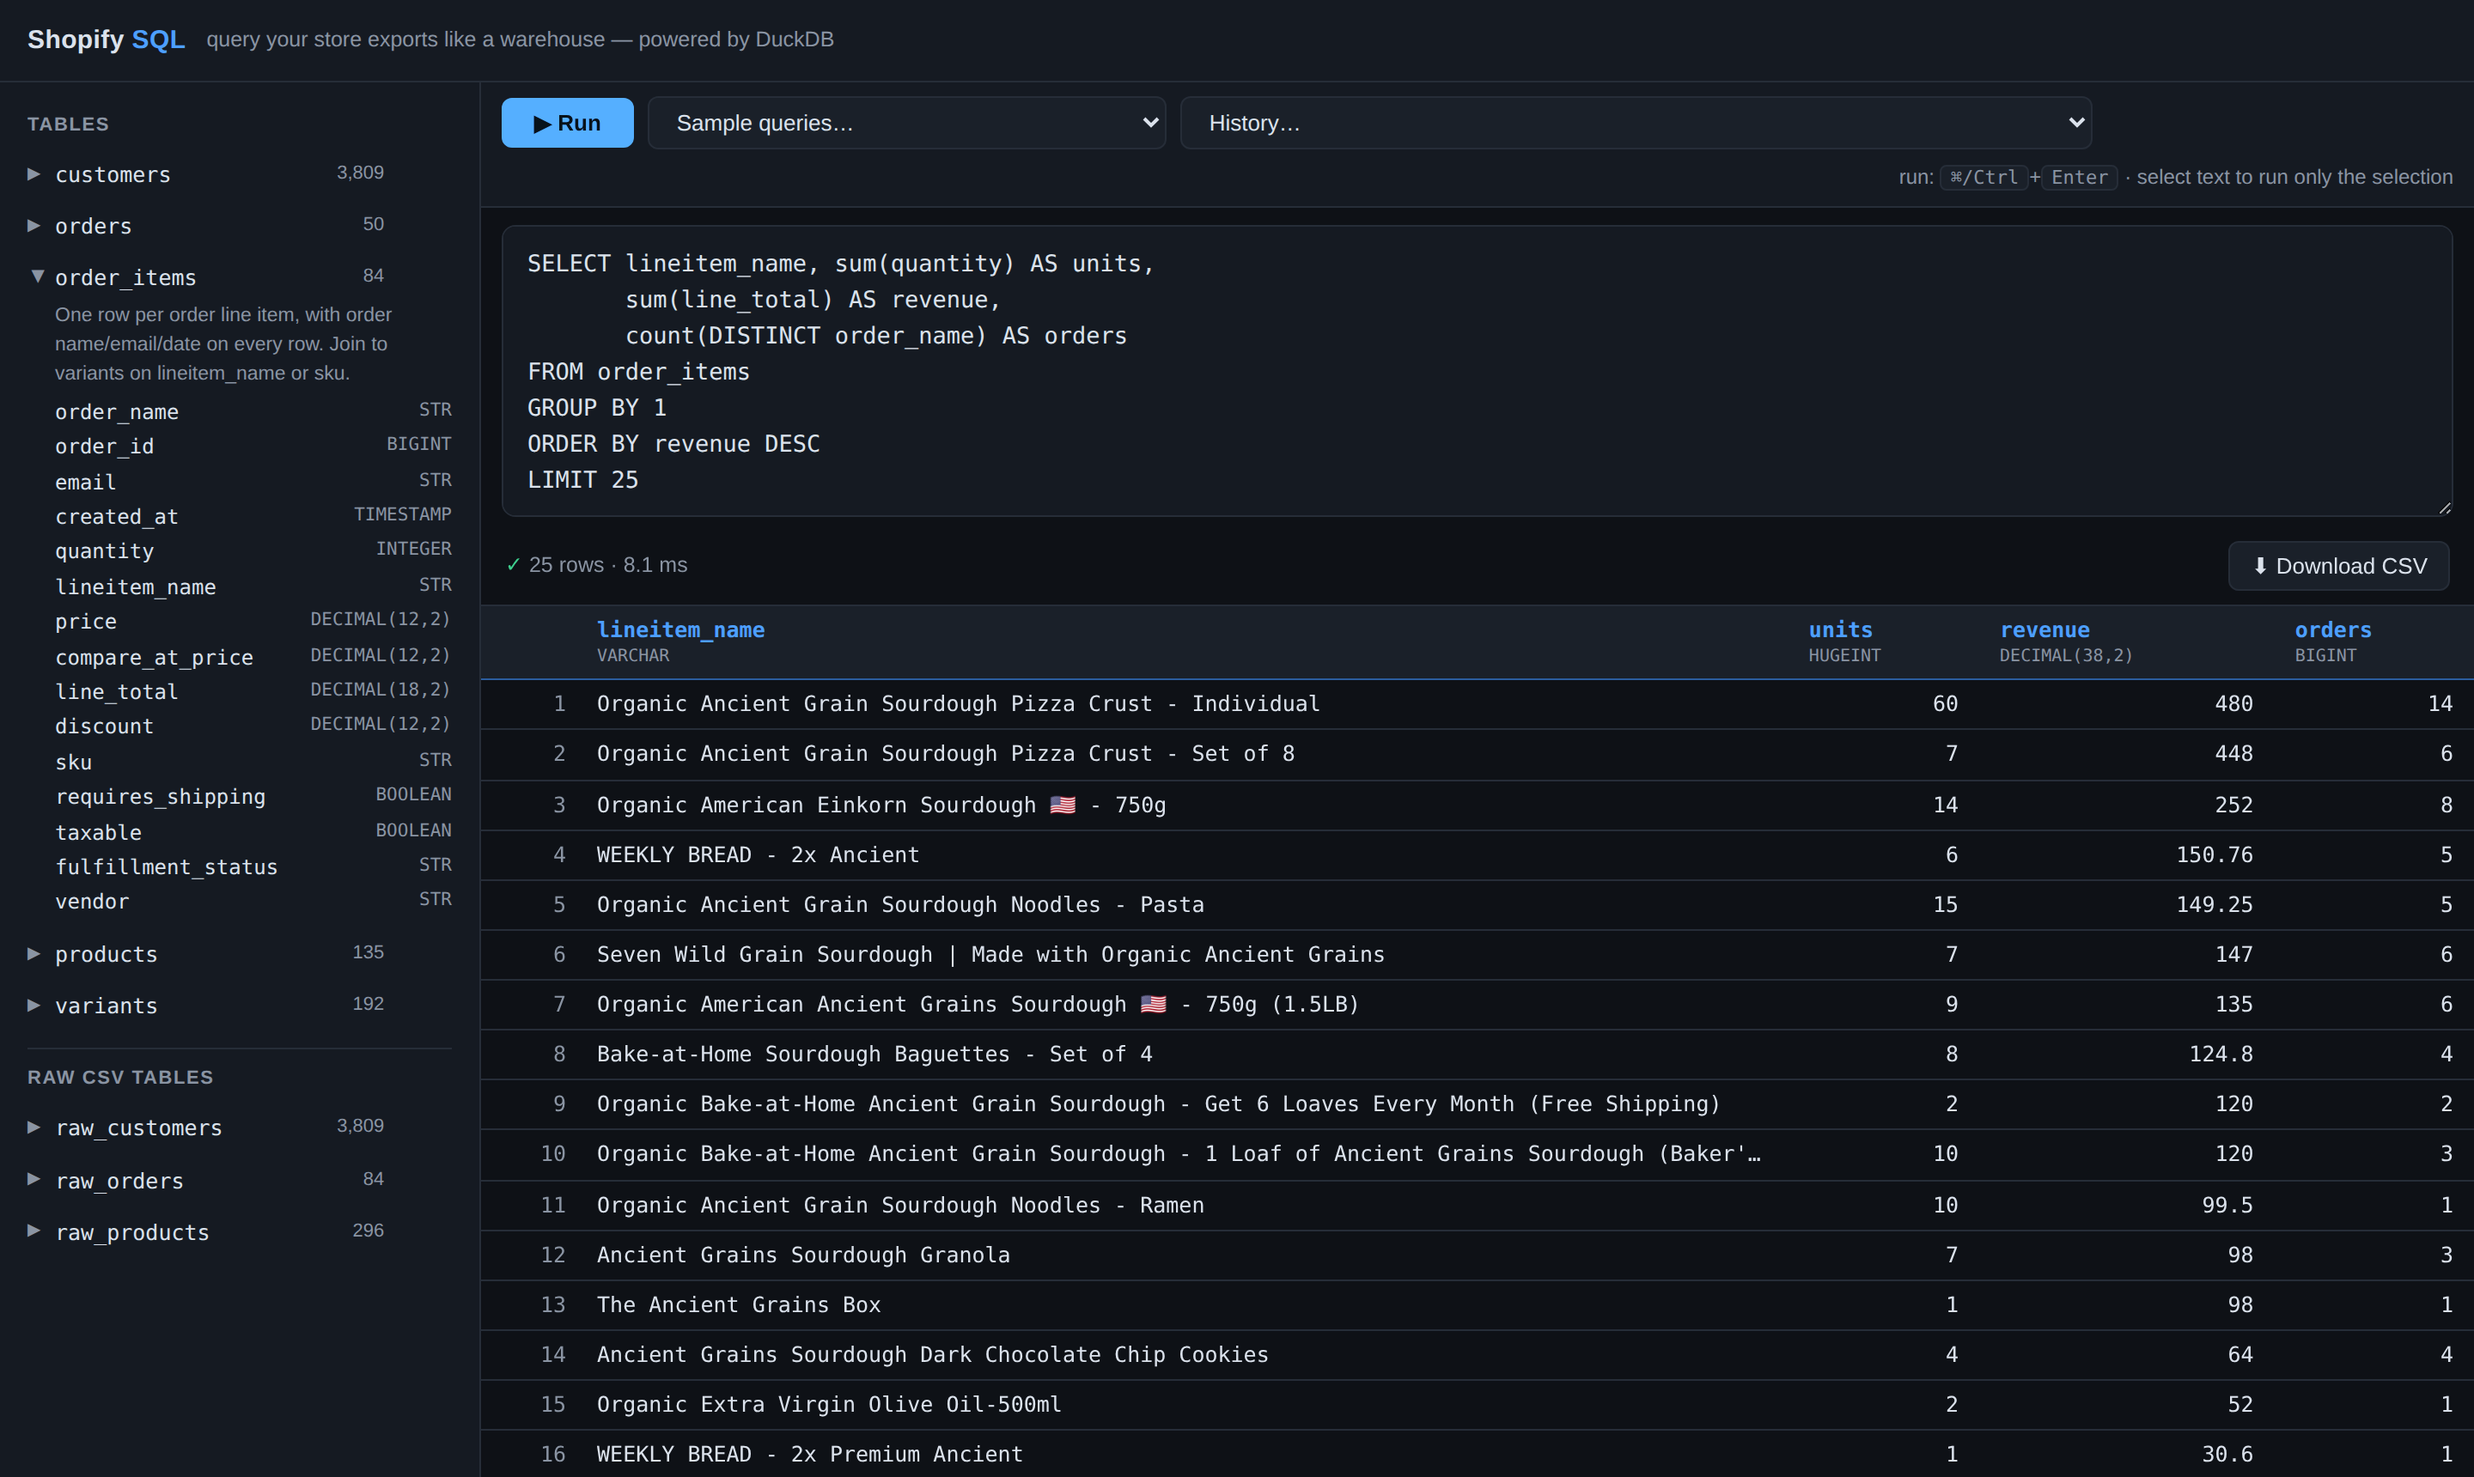
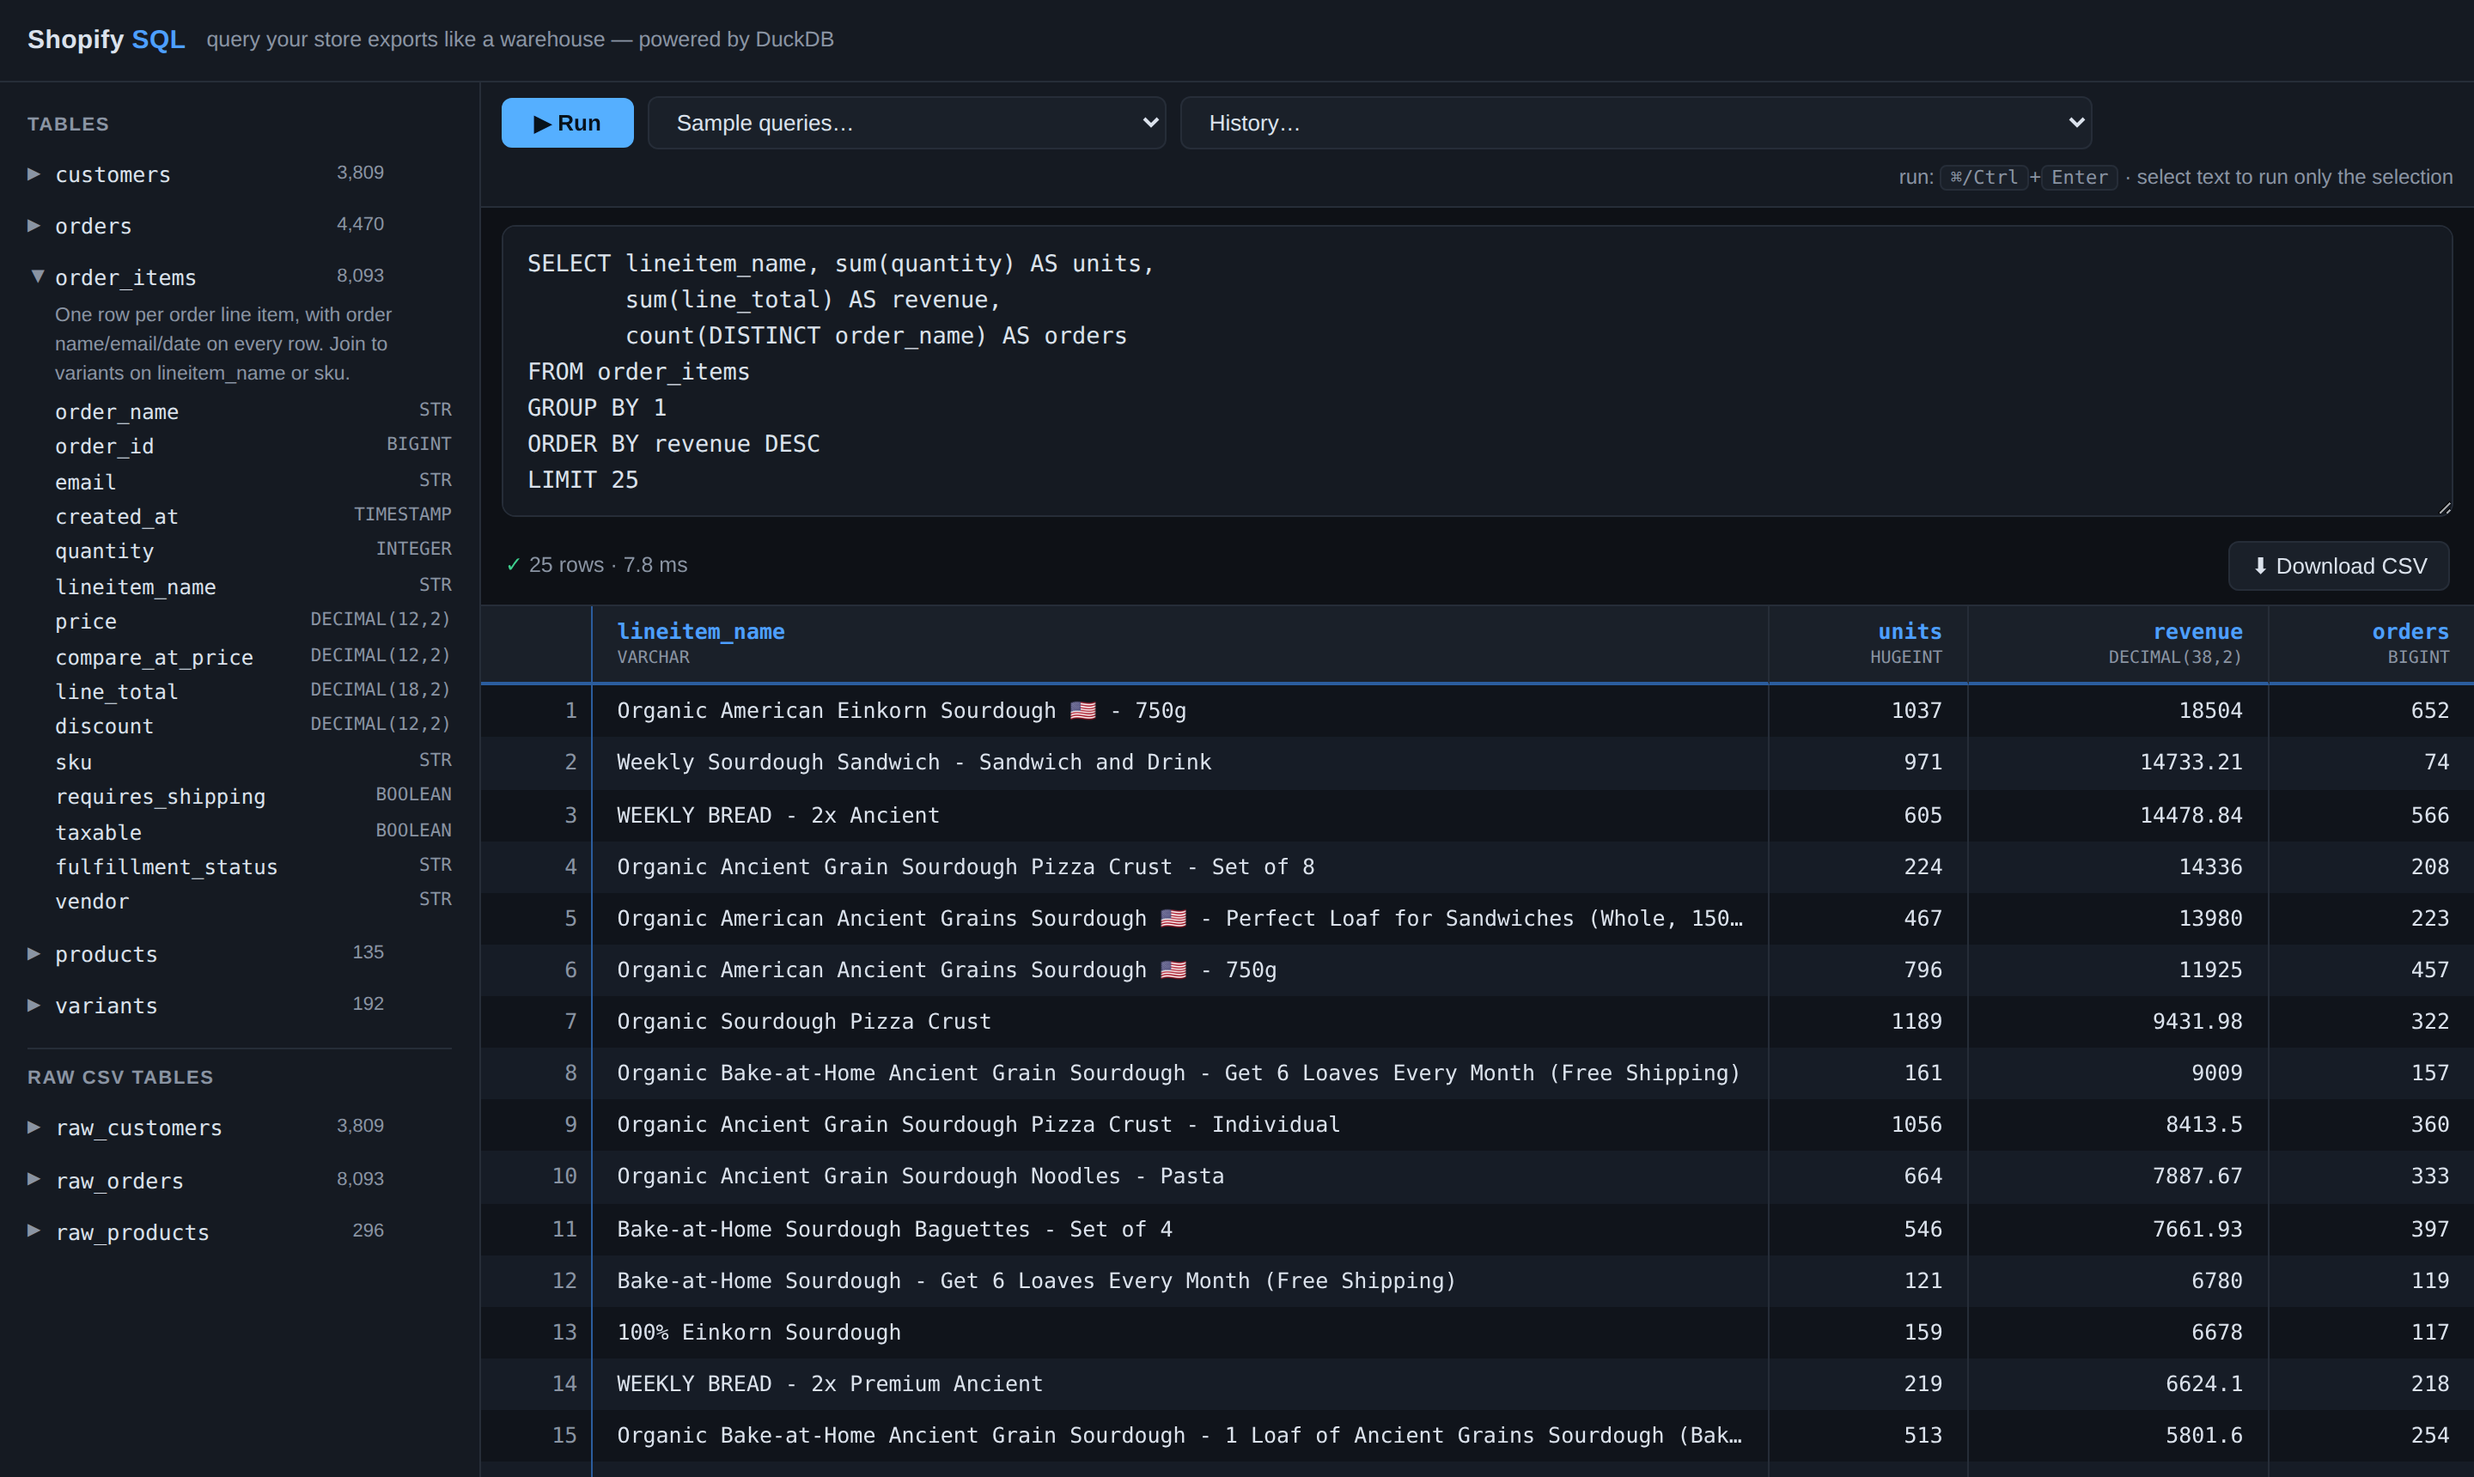
Improve results table legibility
Headers now share their column's alignment (numeric columns right-align
both), subtle vertical column borders and zebra striping replace the
bare rows, the row-number column stays frozen during horizontal scroll,
and booleans/nulls get distinct colors so value types read at a glance.

Claude-Session: https://claude.ai/code/session_01E1mQXbdqFwHqdJJQgfrPv7

diff --git a/static/index.html b/static/index.html
@@ -142,22 +142,44 @@
     flex: 1; overflow: auto; min-height: 0;
     border-top: 1px solid var(--border);
   }
-  #results table { border-collapse: collapse; font-family: var(--mono); font-size: 12.5px; min-width: 100%; }
+  #results table {
+    border-collapse: separate; border-spacing: 0;
+    font-family: var(--mono); font-size: 12.5px; min-width: 100%;
+  }
+  /* opaque per-row background so the sticky index column hides content
+     scrolling beneath it; zebra + hover set the variable */
+  #results tbody tr:nth-child(odd)  { --row-bg: #10141b; }
+  #results tbody tr:nth-child(even) { --row-bg: #161c26; }
+  #results tbody tr:hover           { --row-bg: #1e2a3a; }
   #results th, #results td {
-    padding: 5px 12px; border-bottom: 1px solid var(--border);
+    padding: 6px 14px;
+    border-right: 1px solid var(--border);
     text-align: left; white-space: nowrap; max-width: 420px;
     overflow: hidden; text-overflow: ellipsis;
   }
+  #results th:last-child, #results td:last-child { border-right: none; }
+  #results td { background: var(--row-bg); }
   #results th {
-    position: sticky; top: 0; z-index: 1;
+    position: sticky; top: 0; z-index: 2;
     background: var(--panel-2); color: var(--accent);
-    font-weight: 600; border-bottom: 1px solid var(--accent-dim);
+    font-weight: 600;
+    border-bottom: 2px solid var(--accent-dim);
   }
   #results th .th-type { display: block; color: var(--muted); font-weight: 400; font-size: 10px; }
-  #results td.num { text-align: right; font-variant-numeric: tabular-nums; }
+  #results th.num, #results td.num { text-align: right; font-variant-numeric: tabular-nums; }
   #results td.null { color: var(--muted); font-style: italic; }
-  #results tr:hover td { background: rgba(77,159,255,.05); }
-  #results .idx { color: var(--muted); text-align: right; padding-right: 6px; }
+  #results td.bool-t { color: var(--green); }
+  #results td.bool-f { color: var(--muted); }
+  /* frozen row-number column */
+  #results th:first-child, #results td:first-child {
+    position: sticky; left: 0;
+    border-right: 1px solid var(--accent-dim);
+  }
+  #results th:first-child { z-index: 3; }
+  #results td.idx {
+    color: var(--muted); text-align: right;
+    padding: 6px 8px; min-width: 40px;
+  }
   .empty-state { padding: 40px; color: var(--muted); text-align: center; }
 </style>
 </head>
@@ -440,13 +462,15 @@ function renderResult(data) {
   }
   const numeric = data.columns.map((c) =>
     /INT|DECIMAL|DOUBLE|FLOAT|HUGE|BIGINT/i.test(c.type));
+  const boolean = data.columns.map((c) => /BOOLEAN/i.test(c.type));
 
   const table = document.createElement("table");
   const thead = document.createElement("thead");
   const hr = document.createElement("tr");
   hr.appendChild(document.createElement("th"));
-  data.columns.forEach((c) => {
+  data.columns.forEach((c, j) => {
     const th = document.createElement("th");
+    if (numeric[j]) th.className = "num";  // header aligns with its data
     th.textContent = c.name;
     const t = document.createElement("span");
     t.className = "th-type";
@@ -470,6 +494,7 @@ function renderResult(data) {
       else {
         td.textContent = typeof v === "object" ? JSON.stringify(v) : String(v);
         if (numeric[j]) td.className = "num";
+        else if (boolean[j]) td.className = v === true ? "bool-t" : "bool-f";
         td.title = td.textContent;
       }
       tr.appendChild(td);
